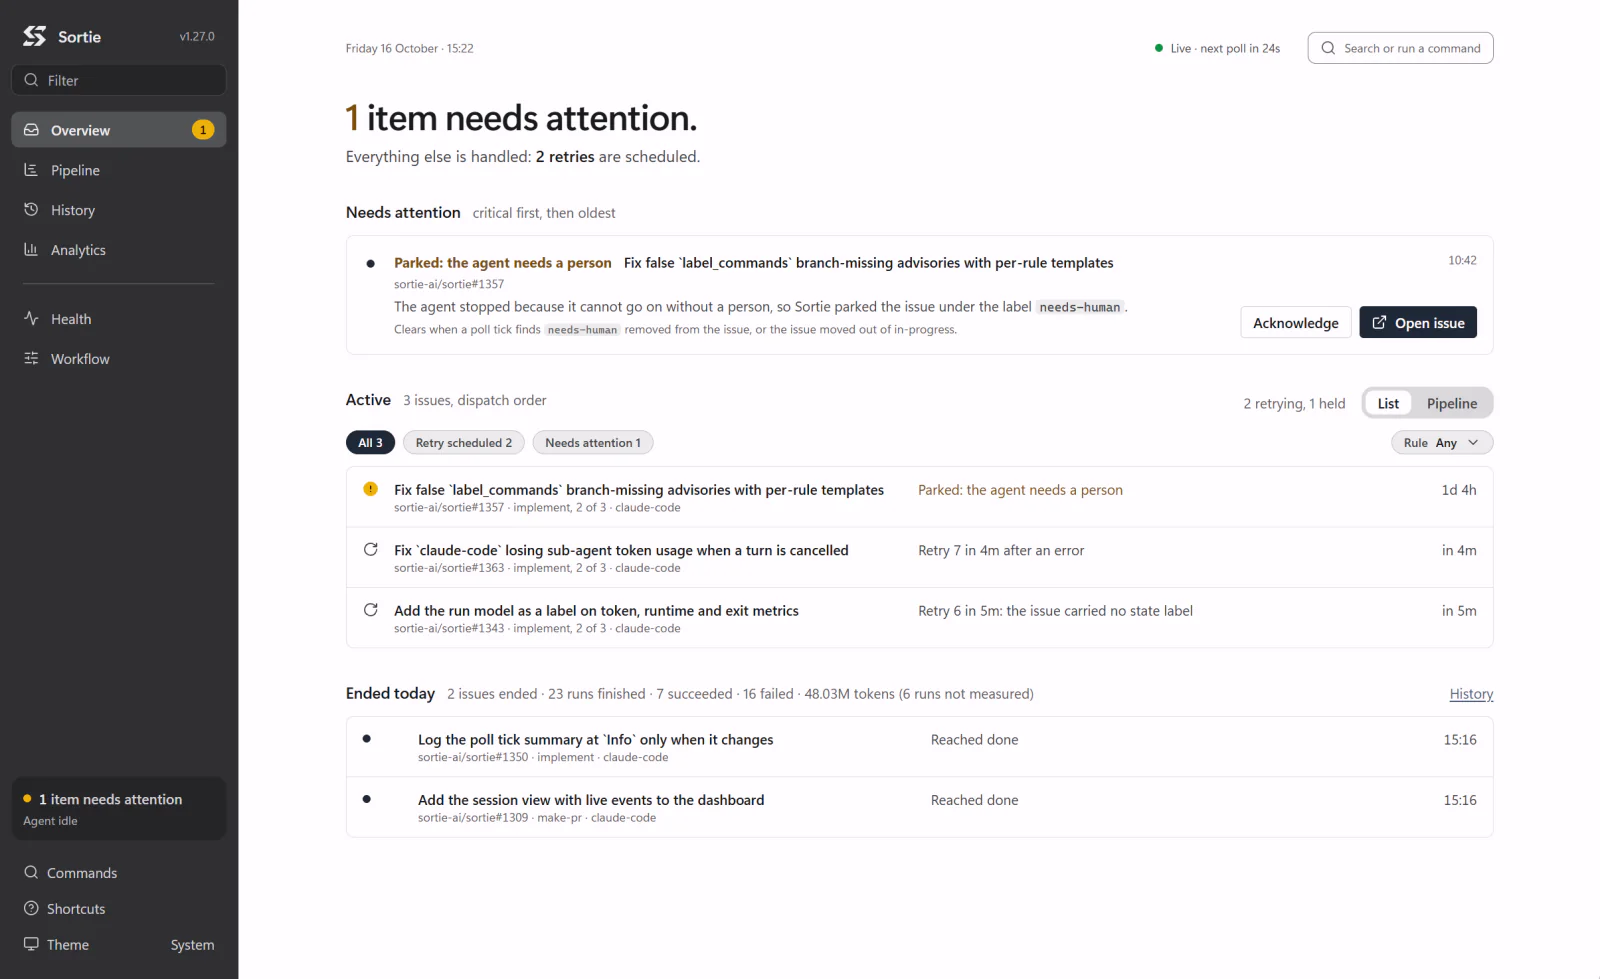
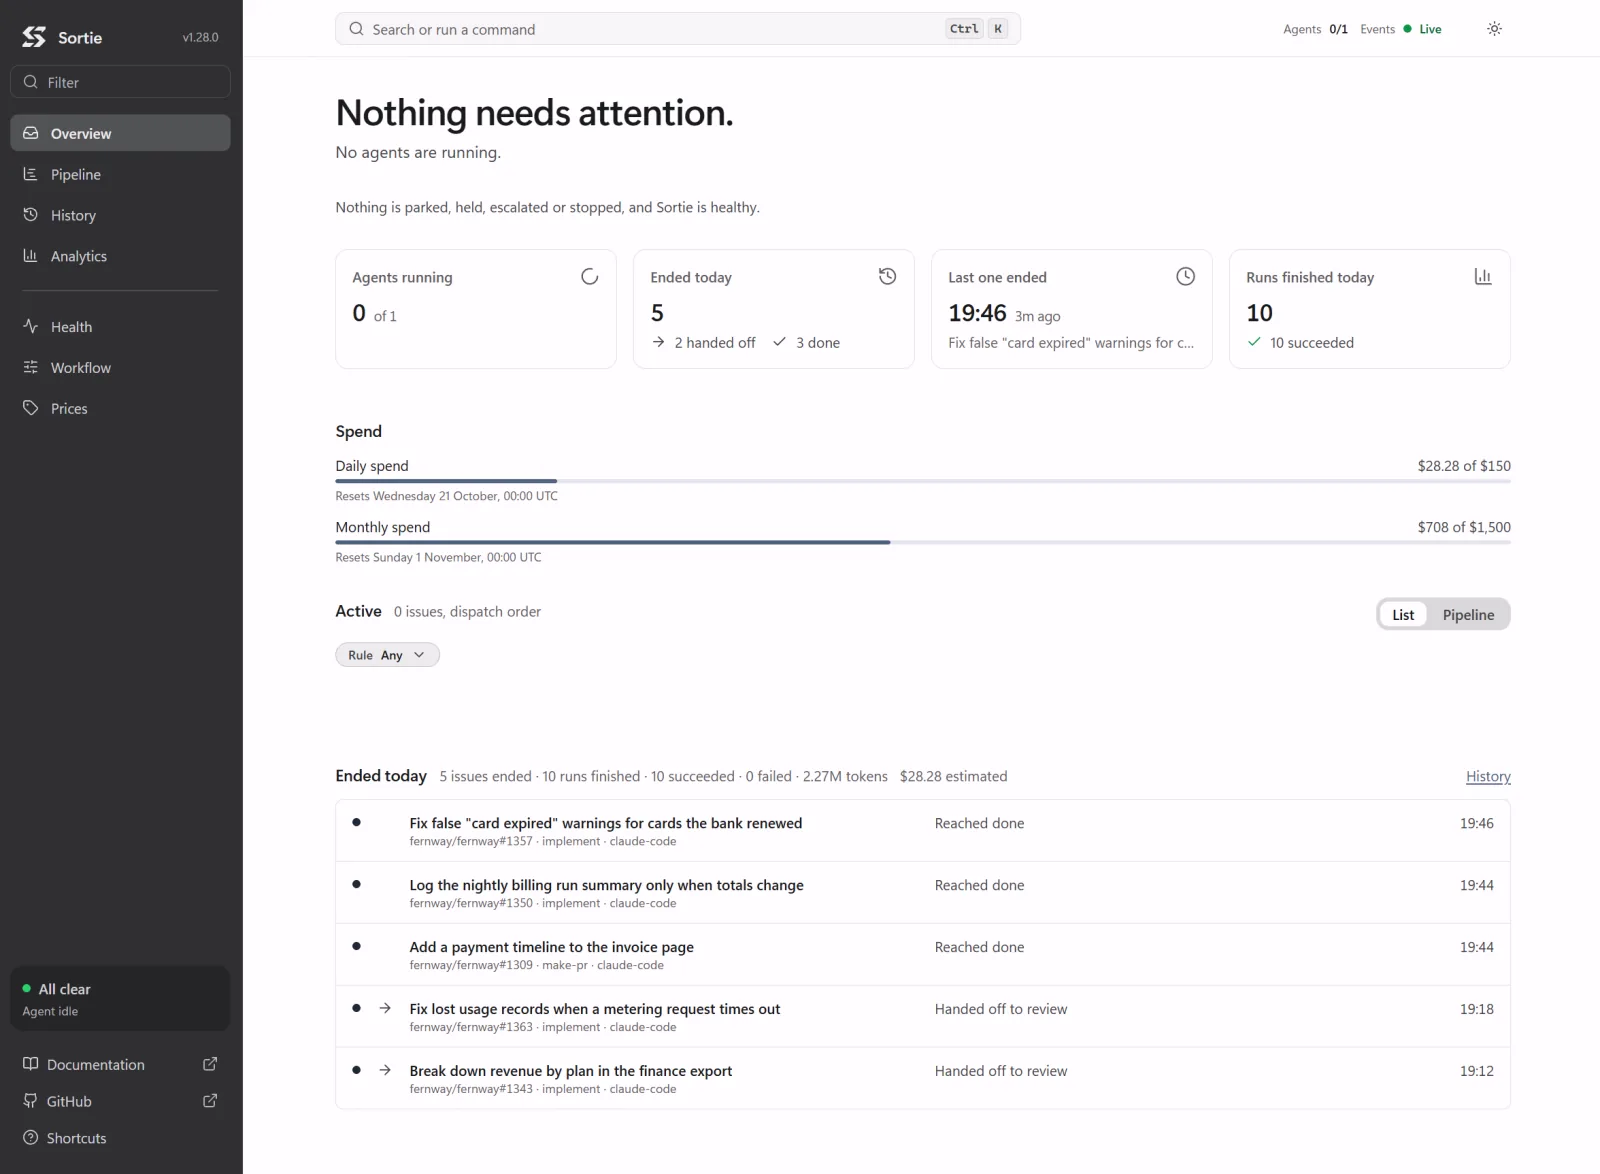
chore: update dashboard images

diff --git a/content/reference/dashboard.md b/content/reference/dashboard.md
@@ -92,7 +92,7 @@ Before the first answer the page body reads "Loading". When Sortie does not answ
 
 **Overview** answers: does anything need a person right now? The page opens with a headline sentence and a lede, then the blocks below.
 
-![Overview with the headline "1 item needs attention", an attention item for a parked issue with Acknowledge and Open issue buttons, the active issues in dispatch order under lifecycle chips and the Rule menu, and an Ended today list with its tally line](/img/dashboard/overview.webp)
+![Overview with the headline "Nothing needs attention.", the Agents running, Ended today, Last one ended, and Runs finished today figures, the Spend section with daily and monthly meters against their ceilings, an empty Active list with the Rule menu, and an Ended today list with its tally line](/img/dashboard/overview.webp)
 
 | Headline | Shown when |
 |---|---|
@@ -168,7 +168,7 @@ A legend under the lanes explains every mark in use. With more than 24 lanes the
 
 The peek is a drawer that shows one issue over **Overview** or **Pipeline** without leaving the list. It opens from a click on a row or lane, or from `Space` on the selected row, and it has its own address, so it can be shared. While it is open the list holds still, and the live indicator reads "Holding still while you read". `J` and `K` move the peek to the neighboring issue, and `Esc`, `Space`, the **Close** button, or the browser's Back button close it. **Open page** opens the [issue page](#issue-page).
 
-![The peek drawer open over Overview for an issue waiting on a retry, with its title, Sortie's sentence, its lane and stage meter, the Route, Agent, Sessions, and Tokens facts, What happens next, and the last runs under So far](/img/dashboard/issue-peek.webp)
+![The peek drawer open over Overview for an issue that reached done, with its title, Sortie's sentence, its lane and stage meter, the Last session and Open issue buttons, the Route, Agent, Sessions, and Spent facts, and the last runs under So far](/img/dashboard/issue-peek.webp)
 
 | Part | Contents |
 |---|---|
@@ -185,7 +185,7 @@ An issue Sortie no longer knows reads "Sortie no longer knows" followed by its k
 
 The issue page answers: what happened to this issue, what happens next, and what has it cost? It opens from the peek, from **History**, from the palette, and from the **Overview** tiles, and `Esc` returns to the screen it was opened from.
 
-![Issue page of a finished issue with its breadcrumb, title, and sentence, a Pipeline card with every station passed, folded stage chapters, a Pull request chapter of run cards, and the Budget and Route panels in the margin](/img/dashboard/issue-page.webp)
+![Issue page of a finished issue with its breadcrumb, title, and sentence, a Pipeline card with every station passed, folded stage chapters, a Pull request chapter with a run card, and the Budget and cost and Route panels in the margin](/img/dashboard/issue-page.webp)
 
 The page opens with the issue's tracker state and type, its title, Sortie's sentence about it, and, for a running issue whose agent has been quiet, a stall notice. Buttons follow: **Open live session** or **Last session**, **Open issue**, and the pull request button. Under them a **Pipeline** card draws the issue's [lane](#pipeline) with the station names, with the stage meter and, at reaction stations, the counts. From 1280 px wide the story sits beside a margin of panels. Below that the margin follows the story.
 
@@ -215,7 +215,7 @@ A failed read of run history shows "Run history could not be read." above the st
 
 The session view answers: what is this agent doing, or what did it do? It shows one agent session of one issue, live while the session runs and from the stored events once it ends. It opens from a run card, from the **Open live session** and **Last session** buttons, from `O`, and from the palette. `Esc` returns to the issue page.
 
-![Session view of a finished session with its facts line, an Events pane with turns and folded tool calls, a Tokens per turn chart, and the Usage, Session, and Sessions panels](/img/dashboard/agent-session.webp)
+![Session view of a finished session with its facts line, an Events pane with turns and folded tool calls, and the Usage, Cost per model, Session, and Sessions panels](/img/dashboard/agent-session.webp)
 
 The page head shows the issue key and title, the heading "Session N of" the key, and a line of facts: agent kind, model, route, the reaction that started the session when a pull request fix did, the SSH host when one is used, its time span and duration, and its status, such as "Running, turn 3 of 20" or "Succeeded, 4 turns". A running session whose agent has sent no event for longer than usual shows a stall notice, and a running session with no stall timeout shows a notice that stall detection is off. A session that ended with an error shows why, with the agent's last message when it sent one.
 
@@ -237,7 +237,7 @@ An address that names no session reads "No such session". The [HTTP API](/refere
 
 **History** answers: what finished, how did it end, and what did it use? It lists finished runs grouped by issue, the issue with the newest ending first, 20 issues at a time. **Show more issues** loads the next 20.
 
-![History grouped by issue, with the Issue key field and the Rule, Run status, and Hop to filters above a table of runs with their status, rule, agent, duration, turns, tokens, and finish time](/img/dashboard/history.webp)
+![History grouped by issue, with the Issue key field and the Rule, Run status, and Hop to filters above a table of runs with their status, rule, agent and model, duration, turns, tokens, estimated cost, and finish time](/img/dashboard/history.webp)
 
 Filters sit above the table, and each is part of the address.
 
@@ -267,7 +267,7 @@ With no run on record the screen reads "No run has finished yet." A filter that 
 
 **Analytics** answers: how do runs go over time, and where do they spend their effort? A **Range** control picks **Last 24 hours**, **Last 7 days** (the default), **Last 30 days**, **Last 90 days**, or **All time**, and hovering the control gives the start of the range. A range without a run reads "No run finished in this range." (or "No run has finished yet." for **All time**). Warnings about the report, such as a database written before Sortie recorded a figure, appear above the figures.
 
-![Analytics over 7 days with the success rate and summary figures, the Outcomes bar, a stage chain funnel table, and the By rule and By model breakdown tables](/img/dashboard/analytics.webp)
+![Analytics over the last 7 days with the success rate and summary figures, the Outcomes bar, the Spend chart with one bar per UTC day, a stage chain funnel table, and the By rule breakdown table](/img/dashboard/analytics.webp)
 
 The summary opens with the success rate, large, and "N of M runs succeeded" under it. Beside it the figures run in one row.
 
@@ -320,6 +320,8 @@ A run that used two models counts in both **By model** rows, so the rows' runs c
 ## Health
 
 **Health** answers: is Sortie itself working? **Checks** lists one row per check, each with a mark, a sentence about the last result, and the error text when the check failed.
+
+![Health with the Database, Dispatch preflight, WORKFLOW.md, Tracker poll, and GitHub checks, and the Poll loop and Process panels beside them](/img/dashboard/health.webp)
 
 | Check | Reads |
 |---|---|
@@ -420,6 +422,8 @@ The dashboard shows only what the workflow configures. Every row below changes w
 Costs are estimates, built from the rates in force (`token_rates` entries over the price table), and the dashboard says so with the words "estimated", "est.", and "Estimated cost". A finished run keeps the cost recorded when it finished, whatever the rates say now. Token figures leave out cache reads, which the dashboard shows separately where it has them. `agent.max_tokens` leaves them out too, so the budget meter reads **Tokens** and counts the same figure. The **Cost** meter counts them, because the estimated cost prices them. Durations use at most two units ("1h 17m"), tokens read as "830K" or "48.03M", costs read with two decimals below $100 and as whole dollars from $100, and a share strictly between 0 and 100 percent never rounds to either end.
 
 A figure Sortie does not have is never written as zero. A cost above zero and under one cent reads "under $0.01", so only a cost of zero reads "$0.00". Hovering a cost shows its exact amount on every screen but **Analytics**, which never repeats an amount in a hover: a lower-bound cost there is its amount cut down with a dotted underline, and its hover says it leaves out the runs Sortie could not price or measure.
+
+![History rows of two issues: one waiting on a retry with its runs priced in full, and one whose total reads "at least $2.70 estimated" because two of its runs show "not measured" for tokens and cost](/img/dashboard/cost-wording.webp)
 
 | Wording | Means |
 |---|---|
